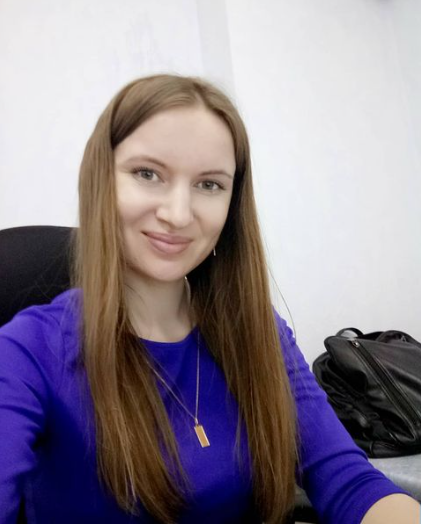
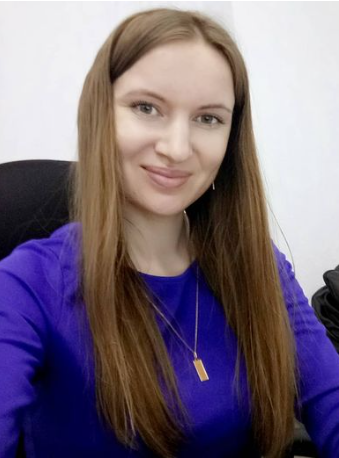
feat: add main-photo

diff --git a/index.html b/index.html
@@ -24,7 +24,9 @@
                 </ul>
             </nav>
          <div class="main-menu">
-            <div class="main-photo">Фото</div>
+            <div class="main-photo">
+                <img src="assets/img/photo_cv.png" alt="Main photo" height="250" width="184">
+            </div>
              <div class="main-name">
                  <h1>Julia Voronovich</h1>
                  <p>IT Engineer</p>

diff --git a/css/style.css b/css/style.css
@@ -35,6 +35,7 @@ body {
     width: 30%;
 }
 .main-photo {
+    padding: 10px 15px 0 15px;
     width: 30%;
 }
 .main-name {
@@ -45,7 +46,7 @@ body {
     width: 100%;
 }
 .nav {
-    box-shadow: 1px 2px 5px;
+    box-shadow: 1px 4px 8px 0px;
     background: #6B9999;
 }
 .main-menu{
